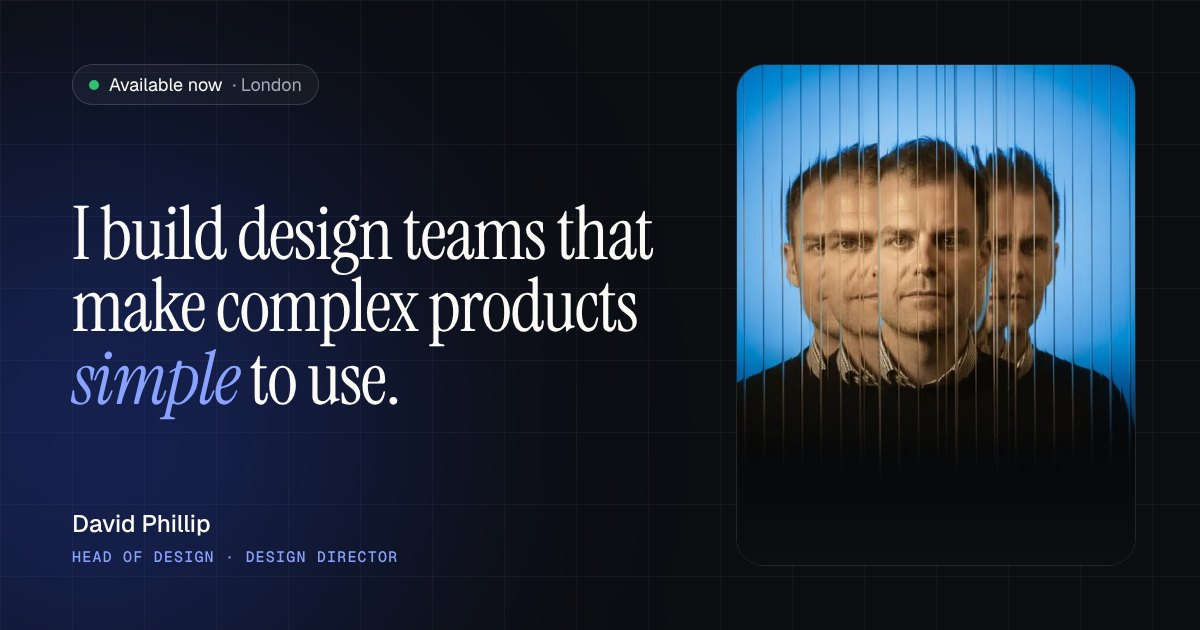
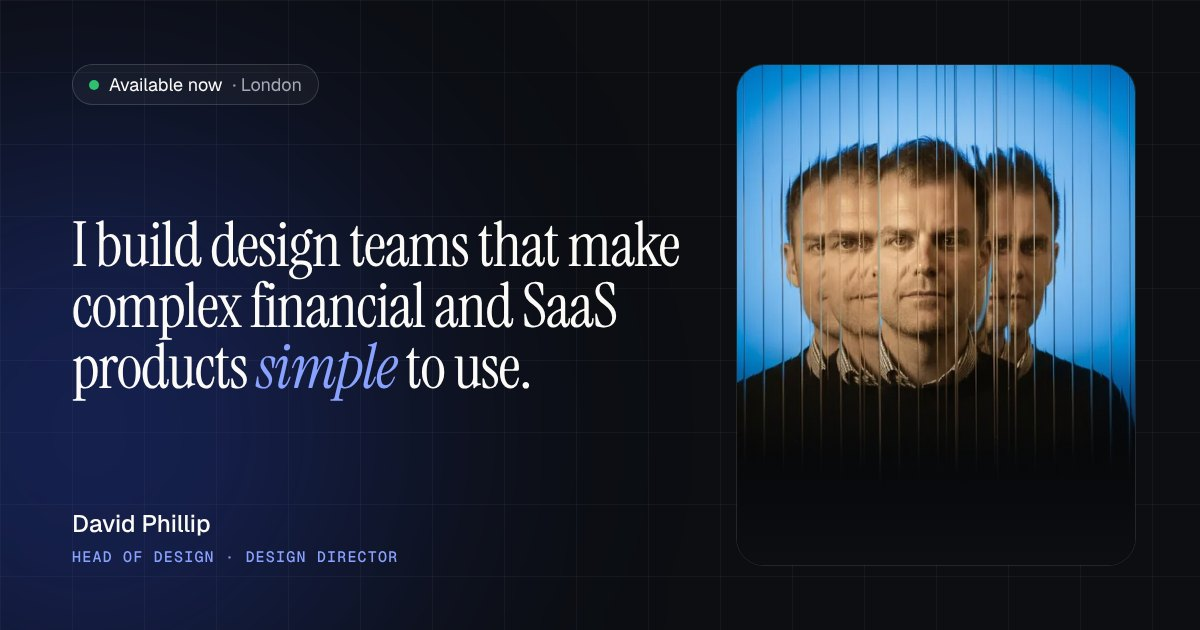
Tighten the /v2 copy: explain the gap, cut repetition, sharper proof
- 2024 to now reads as the work done (designing and building AI
  products), with a Now line under the hero linking to UX Sidekick; the
  separate side-project box is gone.
- The hero numbers show leadership scale (5 to 15 team, 100% retention,
  £400K+ a year saved); the project cards keep the product results, so
  the Cognism NPS no longer appears four times. How I lead uses the
  principle wording instead of repeating numbers.
- Headline names the sectors: complex financial and SaaS products.
- Jana Lowe's quote is replaced by Usha Sanku's clearer one.
- Clarity: the roles sought sit under the name, the contact line says
  David is based in London, "while ARR grew" avoids implying credit for
  revenue, and HSBC Kinetic is marked as a contract role in Experience.

Share image regenerated with the new headline.

Claude-Session: https://claude.ai/code/session_015P5UWCVMeAXcigBDZjeQ1p

Changed region(s): [[0.0617, 0.3016, 0.5858, 0.6635]]

diff --git a/apps/client/src/rebuild/shortPortfolio.ts b/apps/client/src/rebuild/shortPortfolio.ts
@@ -7,15 +7,16 @@ import type { CaseStudySlug } from "@/rebuild/portfolioData";
  */
 
 export const shortHero = {
-  headline: "I build design teams that make complex products",
+  seeking: "Looking for Head of Design or Design Director roles",
+  headline: "I build design teams that make complex financial and SaaS products",
   emphasis: "simple",
   tail: " to use.",
   intro:
     "Head of Design with 20+ years in banking and B2B SaaS, at Coutts, HSBC and Cognism. I hire and grow teams, set up the systems they work in, and tie design to adoption, NPS and revenue.",
   proof: [
-    { value: "−16 → +12", label: "NPS turnaround at Cognism" },
     { value: "5 → 15", label: "Design team grown at Coutts" },
-    { value: "35%", label: "Adoption in 6 months at HSBC Kinetic, vs a 25% target" },
+    { value: "100%", label: "Team retention over two years at Cognism" },
+    { value: "£400K+", label: "Saved a year moving 280+ NatWest Group designers to Figma" },
   ],
 };
 
@@ -43,7 +44,7 @@ export const shortProjects: ShortProject[] = [
     title: "Built product design from zero through 4× growth",
     problem: "Inconsistent workflows and an NPS of −16 had become a commercial risk.",
     action: "Hired the team, set up DesignOps and redesigned the most-used workflows.",
-    result: "NPS rose to +12, with ease of use the main driver, as ARR grew from $20M to $80M.",
+    result: "NPS turned positive, with ease of use the main driver, while ARR grew from $20M to $80M.",
     metric: { value: "−16 → +12", label: "NPS" },
     image: "/images/site/cover-cognism.webp",
     imageAlt: "Cognism usage dashboard showing credits remaining, active users and a bar chart of profile views",
@@ -55,7 +56,7 @@ export const shortProjects: ShortProject[] = [
     period: "2020 – 2022",
     title: "Modernised private banking without losing its quiet confidence",
     problem: "Younger clients wanted modern mobile banking. Existing clients needed reassurance.",
-    action: "Grew the team from 5 to 15, set up UX research and directed the new mobile app.",
+    action: "Scaled the team, set up UX research and directed the new mobile app.",
     result: "Digital adoption up 30% in six months. The app launched at 4.2★ with zero security incidents.",
     metric: { value: "+30%", label: "Digital adoption" },
     image: "/images/site/cover-coutts.webp",
@@ -77,24 +78,26 @@ export const shortProjects: ShortProject[] = [
   },
 ];
 
-export const shortSideProject = {
+/** What David is doing now, shown under the hero so the 2024 – now line is explained. */
+export const shortNow = {
   slug: "ux-sidekick" as CaseStudySlug,
-  name: "UX Sidekick",
-  text: "An AI design critic I designed and built myself. It reviews a screen in about 30 seconds.",
+  text: "Designing and building AI tools for design teams. Latest: UX Sidekick, which critiques a screen in about 30 seconds.",
+  link: "See how I built it",
 };
 
+/** Wording from leadershipPillars in portfolioData.ts. */
 export const shortPrinciples = [
   {
     title: "People before pixels",
-    proof: "100% design team retention over two years at Cognism.",
+    text: "Hire for trajectory, grow people with clear career paths and honest critique, and protect the team’s focus.",
   },
   {
     title: "Systems that scale quality",
-    proof: "Moved 280+ designers at NatWest Group to Figma, saving £400K+ a year.",
+    text: "Design systems, tooling and DesignOps so quality doesn’t depend on a few heroic individuals.",
   },
   {
     title: "Evidence over opinion",
-    proof: "Set up the first UX research practice at Coutts.",
+    text: "Research cadences, usability testing and product metrics that turn debates into decisions.",
   },
 ];
 
@@ -115,18 +118,18 @@ export const shortReferences = [
   },
   {
     quote:
-      "His focus on the customer, paired with a deep understanding of UX and business objectives, meant we were not only able to orchestrate a highly compelling digital presence, but also optimise our performance post-live.",
-    author: "Jana Lowe",
-    role: "Global Head of Digital Sales, HSBC",
-    relationship: "Business stakeholder",
+      "His work balancing the best experience for the user with technical constraints is exceptional, whilst ensuring quality is not compromised.",
+    author: "Usha Sanku",
+    role: "Product Consultant, HSBC Commercial Banking",
+    relationship: "Product partner",
   },
 ];
 
 export const shortExperience = [
-  { period: "2024 – now", role: "Career break and AI product R&D", company: "Independent" },
+  { period: "2024 – now", role: "Designing and building AI products", company: "Independent" },
   { period: "2022 – 2024", role: "Head of UX, Product Design", company: "Cognism" },
   { period: "2020 – 2022", role: "Design Director", company: "Coutts · NatWest Group" },
-  { period: "2019", role: "UX Lead, Product Design", company: "HSBC Kinetic" },
+  { period: "2019", role: "UX Lead, Product Design (contract)", company: "HSBC Kinetic" },
   { period: "2016 – 2019", role: "UX Lead, Wealth & Investments", company: "Schroders" },
 ];
 

diff --git a/apps/client/src/views/PortfolioShort.tsx b/apps/client/src/views/PortfolioShort.tsx
@@ -10,7 +10,7 @@ import {
   shortPrinciples,
   shortProjects,
   shortReferences,
-  shortSideProject,
+  shortNow,
   type ShortProject,
 } from "@/rebuild/shortPortfolio";
 import {
@@ -106,7 +106,7 @@ function Hero() {
           />
           <div>
             <p className="text-[15px] font-medium leading-6 text-ink">{profile.name}</p>
-            <p className="text-sm leading-5 text-stone">{profile.title}</p>
+            <p className="text-sm leading-5 text-stone">{shortHero.seeking}</p>
           </div>
           <div className="w-full sm:ml-auto sm:w-auto">
             <AvailabilityBadge tone="paper" />
@@ -137,6 +137,19 @@ function Hero() {
           </a>
         </div>
       </div>
+
+      <p className="mt-10 flex flex-col gap-2 border-l-2 border-cobalt pl-4 text-[15px] leading-6 text-ink sm:flex-row sm:gap-4">
+        <span className="type-label shrink-0 pt-0.5 text-cobalt">Now</span>
+        <span>
+          {shortNow.text}{" "}
+          <Link
+            href={`/case-study/${shortNow.slug}`}
+            className="font-medium text-cobalt underline underline-offset-4"
+          >
+            {shortNow.link}
+          </Link>
+        </span>
+      </p>
 
       <dl className="mt-14 grid gap-px overflow-hidden rounded-2xl border border-ink/10 bg-ink/10 sm:grid-cols-3">
         {shortHero.proof.map((item) => (
@@ -235,16 +248,6 @@ function Work() {
           <Project key={project.slug} project={project} index={index} />
         ))}
       </div>
-      <p className="rounded-2xl border border-ink/10 bg-bone p-5 text-[15px] leading-6 text-ink md:p-6">
-        <span className="font-medium">Side project: {shortSideProject.name}.</span>{" "}
-        {shortSideProject.text}{" "}
-        <Link
-          href={`/case-study/${shortSideProject.slug}`}
-          className="font-medium text-cobalt underline underline-offset-4"
-        >
-          See how I built it
-        </Link>
-      </p>
     </section>
   );
 }
@@ -263,7 +266,7 @@ function Leadership() {
         {shortPrinciples.map((item) => (
           <li key={item.title} className="border-t-2 border-cobalt pt-4">
             <h3 className="text-[17px] font-medium tracking-[-0.01em] text-ink">{item.title}</h3>
-            <p className="mt-2 text-[15px] leading-6 text-stone">{item.proof}</p>
+            <p className="mt-2 text-[15px] leading-6 text-stone">{item.text}</p>
           </li>
         ))}
       </ul>
@@ -357,8 +360,9 @@ function Contact() {
           Let’s <em className="italic text-periwinkle">talk</em>.
         </h2>
         <p className="type-lede mt-6 max-w-xl text-mist">
-          I’m looking for Head of Design and Design Director roles, based in
-          London. A 30-minute call is the quickest way to see if we’re a fit.
+          I’m based in London and looking for Head of Design or Design
+          Director roles. A 30-minute call is the quickest way to see if we’re
+          a fit.
         </p>
         <div className="mt-10 flex flex-col gap-3 sm:flex-row sm:items-center">
           <ButtonLink href={profile.calendlyUrl} icon="external">
